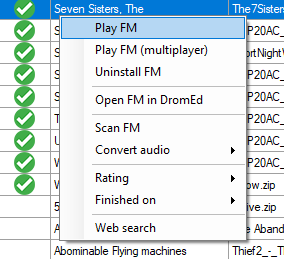
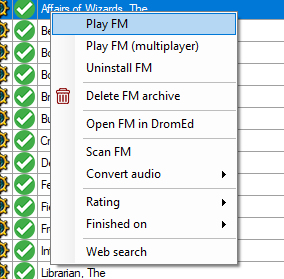
Update doc

diff --git a/doc/AngelLoader documentation.html b/doc/AngelLoader documentation.html
@@ -203,6 +203,8 @@ Double-click the size grip to the right of a column to auto-size that column to 
 <p>Right-click on an FM to bring up the <a href="#fm_context_menu">FM context menu</a>.</p>
 <p>Double-click on a mission or press Enter when a mission is selected to play that mission. By default you will be asked for confirmation in this case; see <a href="#settings_play_on_dc_or_enter_ask">Play FM on double-click / Enter</a>.</p>
 
+Press the Delete key while an FM is selected to delete that FM's archive from disk. You will be asked for confirmation first.
+
 <p>You can zoom the FMs list either with the zoom buttons on the top bar, or with <code>Ctrl++</code>,<code>Ctrl+-</code>, and <code>Ctrl+0</code>, or with Ctrl+mousewheel.
 
 <h4>Columns</h4>
@@ -280,6 +282,9 @@ This item will only appear if Thief2MP.exe was found in the Thief 2 directory. C
 
 <h4>Install / Uninstall FM</h4>
 If the currently selected FM is not installed, this will install it; otherwise, it will uninstall it.
+
+<h4>Delete FM archive</h4>
+This will allow you to delete an FM's archive from disk. You can also press the Delete key while the FMs list is focused to achieve the same thing. In both cases, you will be asked for confirmation first.
 
 <h4>Open FM in DromEd</h4>
 This item will only appear if DromEd.exe (or ShockEd.exe for System Shock 2) was found in the game directory. Clicking it will open the currently selected FM in DromEd or ShockEd, installing it first if necessary.<br>
